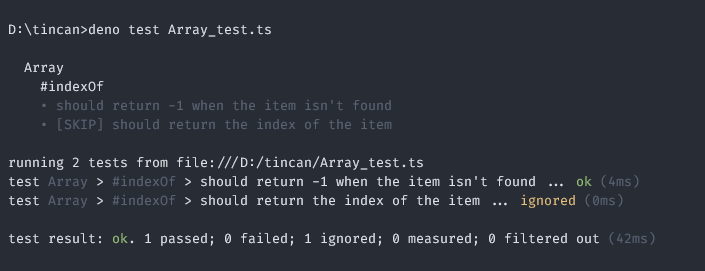
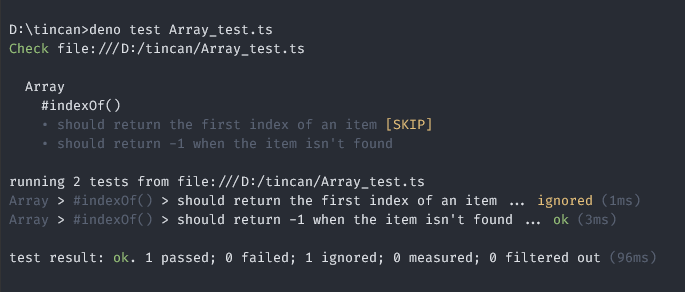
remove leading "test " in output

diff --git a/src/reporters.ts b/src/reporters.ts
@@ -20,6 +20,10 @@ function indent(depth: number) {
   return "  ".repeat(depth);
 }
 
+function skipTag(isSkipped: boolean) {
+  return isSkipped ? colors.yellow(" [SKIP]") : "";
+}
+
 function formatNode(
   node: ItNode | DescribeNode | RootNode,
   depth = 1,
@@ -27,12 +31,10 @@ function formatNode(
   let str = "";
   if (node instanceof ItNode) {
     str += colors.gray(
-      `${indent(depth - 1)}•${
-        node.skipped ? " [SKIP]" : ""
-      } ${node.headline}\n`,
+      `${indent(depth - 1)}• ${node.headline}${skipTag(node.skipped)}\n`,
     );
   } else if (node instanceof DescribeNode) {
-    str += `${indent(depth)}${node.skipped ? "[SKIP] " : ""}${node.headline}\n`;
+    str += `${indent(depth)}${node.headline}${skipTag(node.skipped)}\n`;
     node.children.forEach((child) => str += formatNode(child, depth + 1));
   } else {
     str = "\n";
@@ -46,7 +48,7 @@ export class Reporter implements TestReporter {
     const hierarchy = getAncestry(node)
       .map((node: DescribeNode | ItNode) => colors.gray(node.headline));
     hierarchy.push(colors.bold(node.headline));
-    return hierarchy.join(" > ");
+    return "\u0008".repeat(5) + hierarchy.join(" > ");
   }
 
   reportStart(node: RootNode) {

diff --git a/README.md b/README.md
@@ -46,14 +46,14 @@ describe("Array", () => {
     array = [];
   });
 
-  describe("#indexOf", () => {
-    it.only("should return -1 when the item isn't found", () => {
-      expect(array.indexOf(0)).toBe(-1);
-    });
-
-    it("should return the index of the item", () => {
+  describe("#indexOf()", () => {
+    it("should return the first index of an item", () => {
       array.push(0);
       expect(array.indexOf(0)).toBe(0);
+    });
+
+    it.only("should return -1 when the item isn't found", () => {
+      expect(array.indexOf(0)).toBe(-1);
     });
   });
 });
